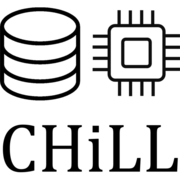
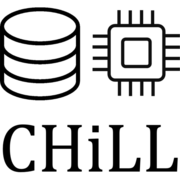
team updated

diff --git a/index.html b/index.html
@@ -9,7 +9,7 @@
   <link rel="preconnect" href="https://fonts.googleapis.com" />
   <link rel="preconnect" href="https://fonts.gstatic.com" crossorigin />
   <link href="https://fonts.googleapis.com/css2?family=Inter:wght@300;400;500;600;700&family=DM+Serif+Display:ital@0;1&family=JetBrains+Mono:wght@400;500&display=swap" rel="stylesheet" />
-  <link rel="stylesheet" href="styles.css" />
+  <link rel="stylesheet" href="styles.css?v=4" />
 </head>
 <body>
 
@@ -18,7 +18,7 @@
   <div class="nav-inner">
     <a class="nav-brand" href="index.html">
       <div class="nav-brand-logo">
-        <img src="images/logo-mark.png" alt="CHiLL Lab logo" />
+        <img src="images/lab_logo_black.png" alt="CHiLL Lab logo" />
       </div>
     </a>
     <button class="hamburger" id="hamburger" aria-label="Menu">
@@ -269,86 +269,62 @@
     <h2 class="section-title">Team Members</h2>
     <div class="divider"></div>
 
-    <div class="members-grid members-row-lead">
+    <div class="members-grid">
 
       <div class="member-card">
-        <div class="member-avatar">
-          <img src="images/people/papon.jpg" alt="Tarikul Islam Papon">
-        </div>
-        <div class="member-name">
-          <a href="https://www.cs.umb.edu/~tpapon/" target="_blank">Tarikul Islam Papon</a>
-        </div>
+        <div class="member-avatar"><img src="images/people/papon.jpg" alt="Tarikul Islam Papon"></div>
+        <div class="member-name"><a href="https://www.cs.umb.edu/~tpapon/" target="_blank">Tarikul Islam Papon</a></div>
         <div class="member-role">PI &amp; Lab Director</div>
       </div>
-
       <div class="member-card">
-        <div class="member-avatar">
-          <img src="images/people/sse.jpeg" alt="Shadman Saqib Eusuf">
-        </div>
-        <div class="member-name">
-          <a href="https://s-saqib.github.io/" target="_blank">Shadman Saqib Eusuf</a>
-        </div>
+        <div class="member-avatar"><img src="images/people/sse.jpeg" alt="Shadman Saqib Eusuf"></div>
+        <div class="member-name"><a href="https://s-saqib.github.io/" target="_blank">Shadman Saqib Eusuf</a></div>
         <div class="member-role">PhD Student</div>
       </div>
-
       <div class="member-card">
         <div class="member-avatar">A</div>
-        <div class="member-name">
-          <a href="https://aroma058.github.io/" target="_blank">Aroma Hoque</a>
-        </div>
+        <div class="member-name"><a href="https://aroma058.github.io/" target="_blank">Aroma Hoque</a></div>
         <div class="member-role">PhD Student</div>
       </div>
-
-    </div>
-
-    <div class="members-grid members-grid-rest">
-
-      <div class="member-card">
-        <div class="member-avatar">R</div>
-        <div class="member-name">Rami Huu Huu Nguyen</div>
-        <div class="member-role">Graduate Researcher</div>
-      </div>
-
-      <div class="member-card">
-        <div class="member-avatar">E</div>
-        <div class="member-name">Enock Okorno Ayiku</div>
-        <div class="member-role">Graduate Researcher</div>
-      </div>
-
       <div class="member-card">
         <div class="member-avatar">F</div>
         <div class="member-name">Farhan S. Chowdhury</div>
         <div class="member-role">Remote Graduate Intern</div>
       </div>
-
-      <div class="member-card">
-        <div class="member-avatar">A</div>
-        <div class="member-name">Anindya Hoque</div>
-        <div class="member-role">Remote Graduate Intern</div>
-      </div>
-
       <div class="member-card">
         <div class="member-avatar">S</div>
         <div class="member-name">Saffat Zabin</div>
         <div class="member-role">Remote Graduate Intern</div>
       </div>
-
+      <div class="member-card">
+        <div class="member-avatar">A</div>
+        <div class="member-name">Anindya Hoque</div>
+        <div class="member-role">Remote Graduate Intern</div>
+      </div>
       <div class="member-card">
         <div class="member-avatar">A</div>
         <div class="member-name">Anwarul Bashir Shuaib</div>
         <div class="member-role">Remote Graduate Intern</div>
       </div>
-
+      <div class="member-card">
+        <div class="member-avatar">R</div>
+        <div class="member-name">Rami Huu Huu Nguyen</div>
+        <div class="member-role">Graduate Researcher</div>
+      </div>
       <div class="member-card">
         <div class="member-avatar">A</div>
         <div class="member-name">Ahtashamul Haque</div>
         <div class="member-role">Remote Graduate Intern</div>
       </div>
-
       <div class="member-card">
         <div class="member-avatar">S</div>
         <div class="member-name">Sayjad Rahman</div>
         <div class="member-role">Remote Graduate Intern</div>
+      </div>
+      <div class="member-card">
+        <div class="member-avatar">E</div>
+        <div class="member-name">Enock Okorno Ayiku</div>
+        <div class="member-role">Graduate Researcher</div>
       </div>
 
     </div>
@@ -365,52 +341,24 @@
 
       <div class="class-item">
         <div class="class-code">CS 434 / CS 634</div>
-        <div class="class-title">Architecture of Database Systems</div>
-        <p class="class-desc">
-          The internals of a database kernel: indexing and query optimization, database update
-          programming, and the ACID properties. The course covers concurrency theory
-          (serializability, two-phase locking, deadlock detection), transactional recovery through
-          REDO/UNDO logging and checkpointing, transactional performance analysis, distributed
-          databases and two-phase commit, and database parallelism.
-        </p>
-        <div class="class-meta">
-          Instructor: <a href="https://www.cs.umb.edu/~tpapon/" target="_blank">Tarikul Islam Papon</a>
-          &nbsp;·&nbsp;
-          <span class="class-terms"><a href="https://www.cs.umb.edu/~tpapon/cs434-634/" target="_blank">[Fall 2026]</a></span>
-        </div>
+        <h3 class="class-title">Architecture of Database Systems</h3>
+        <p class="class-desc">The internals of a database kernel: indexing and query optimization, database update programming, and the ACID properties. The course covers concurrency theory (serializability, two-phase locking, deadlock detection), transactional recovery through REDO/UNDO logging and checkpointing, transactional performance analysis, distributed database systems and two-phase commit, and database parallelism.</p>
+        <div class="class-line"><b>Instructor:</b> <a href="https://www.cs.umb.edu/~tpapon/" target="_blank">Tarikul Islam Papon</a></div>
+        <div class="class-line"><b>Class Website:</b> <a href="https://www.cs.umb.edu/~tpapon/cs434-634/" target="_blank">Fall 2026</a></div>
       </div>
-
       <div class="class-item">
         <div class="class-code">CS 436 / CS 636</div>
-        <div class="class-title">Database Application Development</div>
-        <p class="class-desc">
-          Building database applications — software systems that solve real-world problems while
-          storing their data in relational databases behind practical user interfaces. Topics
-          include system specification from user needs, data-flow and work-flow analysis, object
-          design, database design, client–server techniques and rapid prototyping. Students work in
-          teams on a real project through the term.
-        </p>
-        <div class="class-meta">
-          Instructor: <a href="https://www.cs.umb.edu/~tpapon/" target="_blank">Tarikul Islam Papon</a>
-          &nbsp;·&nbsp;
-          <span class="class-terms"><a href="https://www.cs.umb.edu/~tpapon/cs436-636/" target="_blank">[Spring 2026]</a></span>
-        </div>
+        <h3 class="class-title">Database Application Development</h3>
+        <p class="class-desc">Database applications are software systems that solve real-world problems while storing their data in relational databases behind practical user interfaces. Topics include system specification from user needs, analysis of data flow and work flow, object design, database design, client&ndash;server techniques, and rapid prototyping. Students work in teams on a real project through the term.</p>
+        <div class="class-line"><b>Instructor:</b> <a href="https://www.cs.umb.edu/~tpapon/" target="_blank">Tarikul Islam Papon</a></div>
+        <div class="class-line"><b>Class Website:</b> <a href="https://www.cs.umb.edu/~tpapon/cs436-636/" target="_blank">Spring 2026</a></div>
       </div>
-
       <div class="class-item">
         <div class="class-code">CS 187</div>
-        <div class="class-title">Computer Science Gateway Seminar I</div>
-        <p class="class-desc">
-          A seminar on technology — in particular information technology — and how it relates to our
-          lives. Students read both fiction and non-fiction in which technology is at issue and
-          discuss it in written and oral work, individually and in small groups, with the goal of
-          understanding the social implications of computing.
-        </p>
-        <div class="class-meta">
-          Instructor: <a href="https://www.cs.umb.edu/~tpapon/" target="_blank">Tarikul Islam Papon</a>
-          &nbsp;·&nbsp;
-          <span class="class-terms">[Fall 2026] [Fall 2025]</span>
-        </div>
+        <h3 class="class-title">Computer Science Gateway Seminar I</h3>
+        <p class="class-desc">A seminar on technology &mdash; in particular information technology &mdash; and how it relates to our lives. Students read both fiction and non-fiction in which technology is at issue and discuss it in written and oral work, individually and in small groups. The goal is to understand the many facets of information technology and its social implications.</p>
+        <div class="class-line"><b>Instructor:</b> <a href="https://www.cs.umb.edu/~tpapon/" target="_blank">Tarikul Islam Papon</a></div>
+        <div class="class-line"><b>Class Website:</b> Fall 2026, Fall 2025</div>
       </div>
 
     </div>
@@ -446,24 +394,12 @@
             <div class="contact-value"><a href="mailto:t.papon@umb.edu">t.papon@umb.edu</a></div>
           </div>
         </div>
-
-        <div class="contact-item">
-          <div class="contact-icon">🎓</div>
-          <div>
-            <div class="contact-label">Join Us</div>
-            <div class="contact-value">
-              We are always looking for motivated students interested in data systems and
-              storage hardware. Email Papon with your CV and a short note about what you would
-              like to work on.
-            </div>
-          </div>
-        </div>
       </div>
 
       <div>
         <div class="map-frame">
           <iframe
-            src="https://www.google.com/maps?q=McCormack%20Hall%2C%20University%20of%20Massachusetts%20Boston%2C%20100%20Morrissey%20Blvd%2C%20Boston%2C%20MA%2002125&output=embed"
+            src="https://www.google.com/maps?q=McCormack%20Hall%2C%20University%20of%20Massachusetts%20Boston%2C%20100%20Morrissey%20Blvd%2C%20Boston%2C%20MA%2002125&amp;output=embed"
             loading="lazy"
             referrerpolicy="no-referrer-when-downgrade"
             title="CHiLL Lab location — McCormack Hall, UMass Boston"

diff --git a/styles.css b/styles.css
@@ -316,16 +316,16 @@
       justify-content: center;
     }
 
+    /* Four cards per row, centred; a short final row stays centred too. */
     .members-grid {
       display: flex;
       flex-wrap: wrap;
       justify-content: center;
       align-items: stretch;
-      gap: 20px;
+      gap: 26px;
+      max-width: 1010px;
+      margin: 0 auto;
     }
-    .members-row-lead { margin-bottom: 34px; }
-    /* Keeps the second group balanced (4 + 4) instead of orphaning a short row. */
-    .members-grid-rest { max-width: 772px; margin: 0 auto; }
     .team-subhead {
       font-family: 'JetBrains Mono', monospace;
       font-size: 11px; font-weight: 500; letter-spacing: 0.1em;
@@ -334,9 +334,10 @@
     }
 
     .member-card {
-      border: 1px solid var(--accent);
-      border-radius: 24px;
-      width: 178px !important;
+      border: 1px solid var(--border);
+      border-radius: 18px;
+      width: 226px !important;
+      background: var(--white);
       text-align: center;
       display: flex;
       flex-direction: column;
@@ -362,10 +363,10 @@
 
     .member-avatar {
       width: 100%;
-      height: 176px;
+      height: 226px;
       flex-shrink: 0;
-      margin: 0 auto 10px;
-      border-radius: 22px 22px 0% 0%;
+      margin: 0 auto 14px;
+      border-radius: 0;
       overflow: hidden;
       background: linear-gradient(
           135deg,
@@ -375,10 +376,10 @@
       display: flex;
       align-items: center;
       justify-content: center;
-      font-size: 2.8rem;
+      font-size: 4rem;
       font-weight: 700;
       font-family: 'DM Serif Display', serif;
-      color: var(--surface);
+      color: rgba(255,255,255,0.92);
     }
 
     .faculty-avatar {
@@ -394,9 +395,9 @@
     }
 
     .member-name {
-      font-size: 14px;
-      font-weight: 500;
-      padding: 0 6px 2px;
+      font-size: 15.5px;
+      font-weight: 600;
+      padding: 0 12px 3px;
       /* color: var(--ink); */
     }
 
@@ -410,35 +411,38 @@
     }
 
     .member-role {
-      font-size: 0.85rem;
+      font-size: 13px;
       color: var(--ink-muted);
-      padding: 0 6px 12px;
+      padding: 0 12px 16px;
     }
 
     /* ── Classes ───────────────────────────────────────────────── */
     .class-list { display: flex; flex-direction: column; }
-    .class-item {
-      padding: 20px 0;
-      border-top: 1px solid var(--border);
-    }
-    .class-item:last-child { border-bottom: 1px solid var(--border); }
+    .class-item { padding: 30px 0; border-bottom: 1px solid var(--border); }
+    .class-item:first-child { padding-top: 6px; }
+    .class-item:last-child { border-bottom: none; }
     .class-code {
       font-family: 'JetBrains Mono', monospace;
-      font-size: 12px; font-weight: 500; letter-spacing: 0.08em;
+      font-size: 19.5px; font-weight: 500; letter-spacing: 0.08em;
       text-transform: uppercase; color: var(--accent2);
-      margin-bottom: 4px;
+      margin-bottom: 8px;
     }
     .class-title {
       font-family: 'DM Serif Display', Georgia, serif;
-      font-size: 1.25rem; line-height: 1.3; margin-bottom: 8px;
+      font-size: 1.65rem; line-height: 1.25; color: var(--ink);
+      margin-bottom: 14px;
     }
     .class-desc {
-      font-size: 14px; color: var(--ink-soft);
-      line-height: 1.7; margin-bottom: 8px; max-width: 900px;
+      font-size: 15px; color: var(--ink-soft);
+      line-height: 1.8; margin-bottom: 16px; max-width: 950px;
+      text-align: justify;
     }
-    .class-meta { font-size: 13.5px; color: var(--ink-muted); }
-    .class-meta a { font-weight: 500; }
-    .class-terms a { margin-right: 4px; }
+    .class-line { font-size: 14.5px; color: var(--ink-soft); margin-bottom: 4px; }
+    .class-line b {
+      font-weight: 600; color: var(--ink);
+    }
+    .class-line a { font-weight: 500; }
+    .class-line a + a { margin-left: 2px; }
 
     /* ── Find Us ───────────────────────────────────────────────── */
     .contact-grid {

diff --git a/publications.html b/publications.html
@@ -10,7 +10,7 @@
   <link rel="preconnect" href="https://fonts.gstatic.com" crossorigin />
   <link href="https://fonts.googleapis.com/css2?family=Inter:wght@300;400;500;600;700&family=DM+Serif+Display:ital@0;1&family=JetBrains+Mono:wght@400;500&display=swap" rel="stylesheet" />
   <link rel="stylesheet" href="https://cdnjs.cloudflare.com/ajax/libs/font-awesome/6.5.2/css/all.min.css">
-  <link rel="stylesheet" href="styles.css" />
+  <link rel="stylesheet" href="styles.css?v=4" />
 </head>
 <body>
 
@@ -19,7 +19,7 @@
   <div class="nav-inner">
     <a class="nav-brand" href="index.html">
       <div class="nav-brand-logo">
-        <img src="images/logo-mark.png" alt="CHiLL Lab logo" />
+        <img src="images/lab_logo_black.png" alt="CHiLL Lab logo" />
       </div>
     </a>
     <button class="hamburger" id="hamburger" aria-label="Menu">
